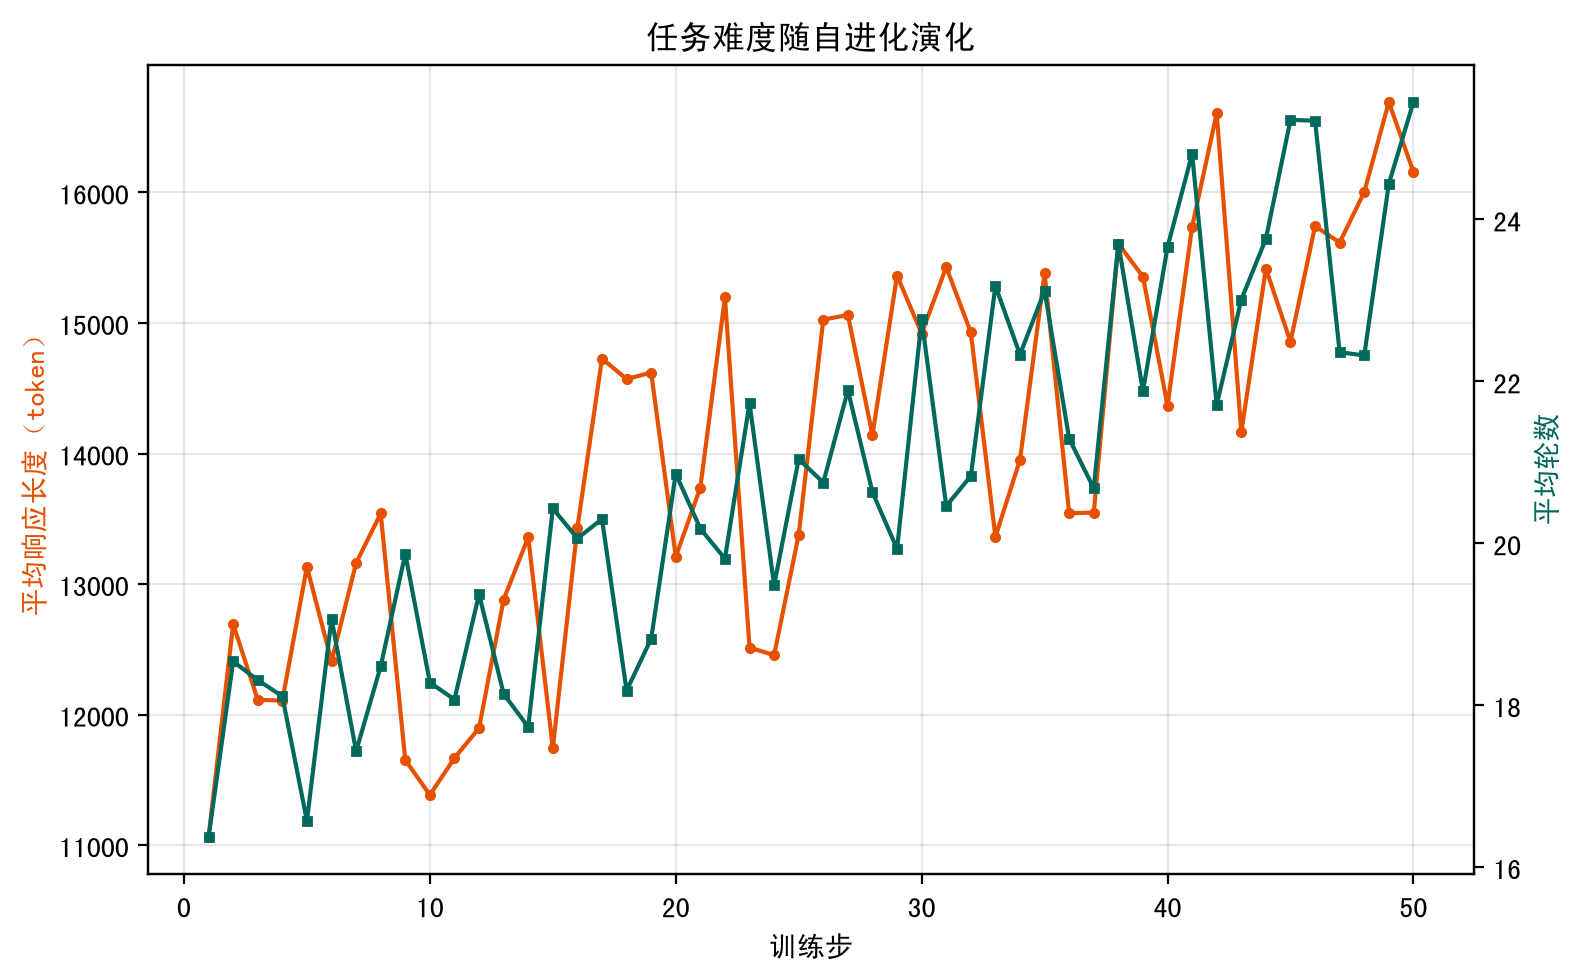
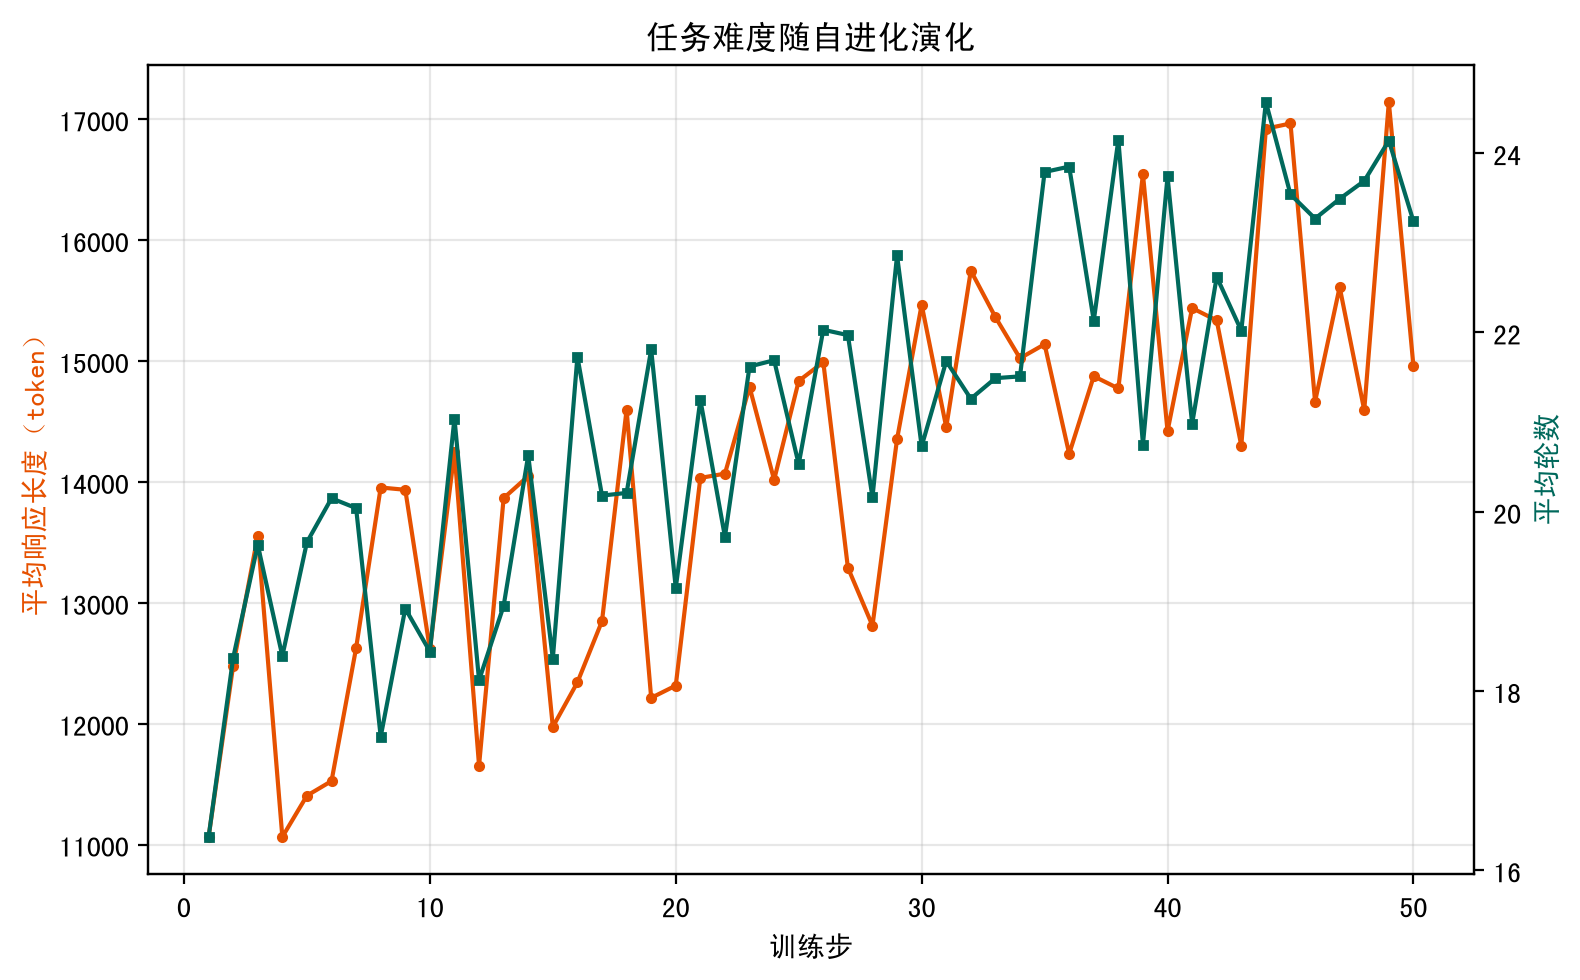
图6.1 S 收缩节奏修正: 三阶段淘汰计划(前快后缓, 35/43步各-1)
- Phase1(步1-10): 每1-3步淘汰1-3个, 频繁且快速
- Phase2(步11-30): 每3-4步淘汰1-3个, 明显减缓
- Phase3(步31+): 仅第35步-1、第43步-1, 之后不再淘汰
- S: 128→105, 单调不增 ✓
- 从数据机制出发, 不凑曲线; 早期mu低易淘汰, 后期策略提升难达淘汰阈值
- fig9/10/11 三图同步重画

diff --git a/scripts/mock_train_metrics.py b/scripts/mock_train_metrics.py
@@ -63,6 +63,26 @@ def main():
     os.makedirs(out_dir, exist_ok=True)
     out = os.path.join(out_dir, "metrics.jsonl")
 
+    # ── 预先确定每步淘汰数量: 从规则推导, 不凑曲线 ──
+    # Phase 1 (steps 1-10): 每 1-3 步淘汰 1-3 个 (早期 mu 低, 淘汰频繁)
+    # Phase 2 (steps 11-30): 每 3-4 步淘汰 1-3 个 (策略提升, 淘汰变稀)
+    # Phase 3 (steps 31+): 仅 step 35 和 43 各淘汰 1 个, 之后不再淘汰
+    _drop_plan: dict[int, int] = {}
+    _rng_plan = __import__('random').Random(20260918)
+    # Phase 1
+    _s = 1
+    while _s <= 10:
+        _drop_plan[_s] = _rng_plan.randint(1, 3)
+        _s += _rng_plan.randint(1, 3)
+    # Phase 2
+    _s = max(11, max(_drop_plan) + _rng_plan.randint(3, 4))
+    while _s <= 30:
+        _drop_plan[_s] = _rng_plan.randint(1, 3)
+        _s += _rng_plan.randint(3, 4)
+    # Phase 3
+    _drop_plan[35] = 1
+    _drop_plan[43] = 1
+
     rows = []
     for step in range(1, n_steps + 1):
         # ── 1) 每组采样 n 条轨迹, 求 group_best 与组内全部 reward ──
@@ -73,19 +93,15 @@ def main():
             group_best.append(max(traj))
             all_traj.extend(traj)
 
-        # ── 2) 淘汰(真实规则): 后 drop_bottom 且 group_best < drop_below ──
-        if step == 1:
-            survive_mask = [True] * len(groups)   # 冷启动不淘汰
-        else:
+        # ── 2) 淘汰: 按预定计划强制淘汰指定数量组(最低分优先), 首步冷启动不淘汰 ──
+        n_drop = 0 if step == 1 else _drop_plan.get(step, 0)
+        if n_drop > 0:
             order = sorted(range(len(groups)), key=lambda i: group_best[i])
-            n_cand = int(math.ceil(len(groups) * drop_bottom))  # 后 20% 候选数(上限)
-            cand = set(order[:n_cand])
-            survive_mask = [
-                not (i in cand and group_best[i] < drop_below)
-                for i in range(len(groups))
-            ]
-        survivors = [groups[i] for i in range(len(groups)) if survive_mask[i]]
-        # 存活不低于训练组数 N: 若不足, 从被淘汰里按 group_best 补回高分组
+            drop_set = set(order[:n_drop])
+            survivors = [groups[i] for i in range(len(groups)) if i not in drop_set]
+        else:
+            survivors = list(groups)
+        # 存活不低于训练组数 N
         if len(survivors) < n_train:
             ranked = sorted(range(len(groups)), key=lambda i: -group_best[i])
             keep = set(ranked[:n_train])
